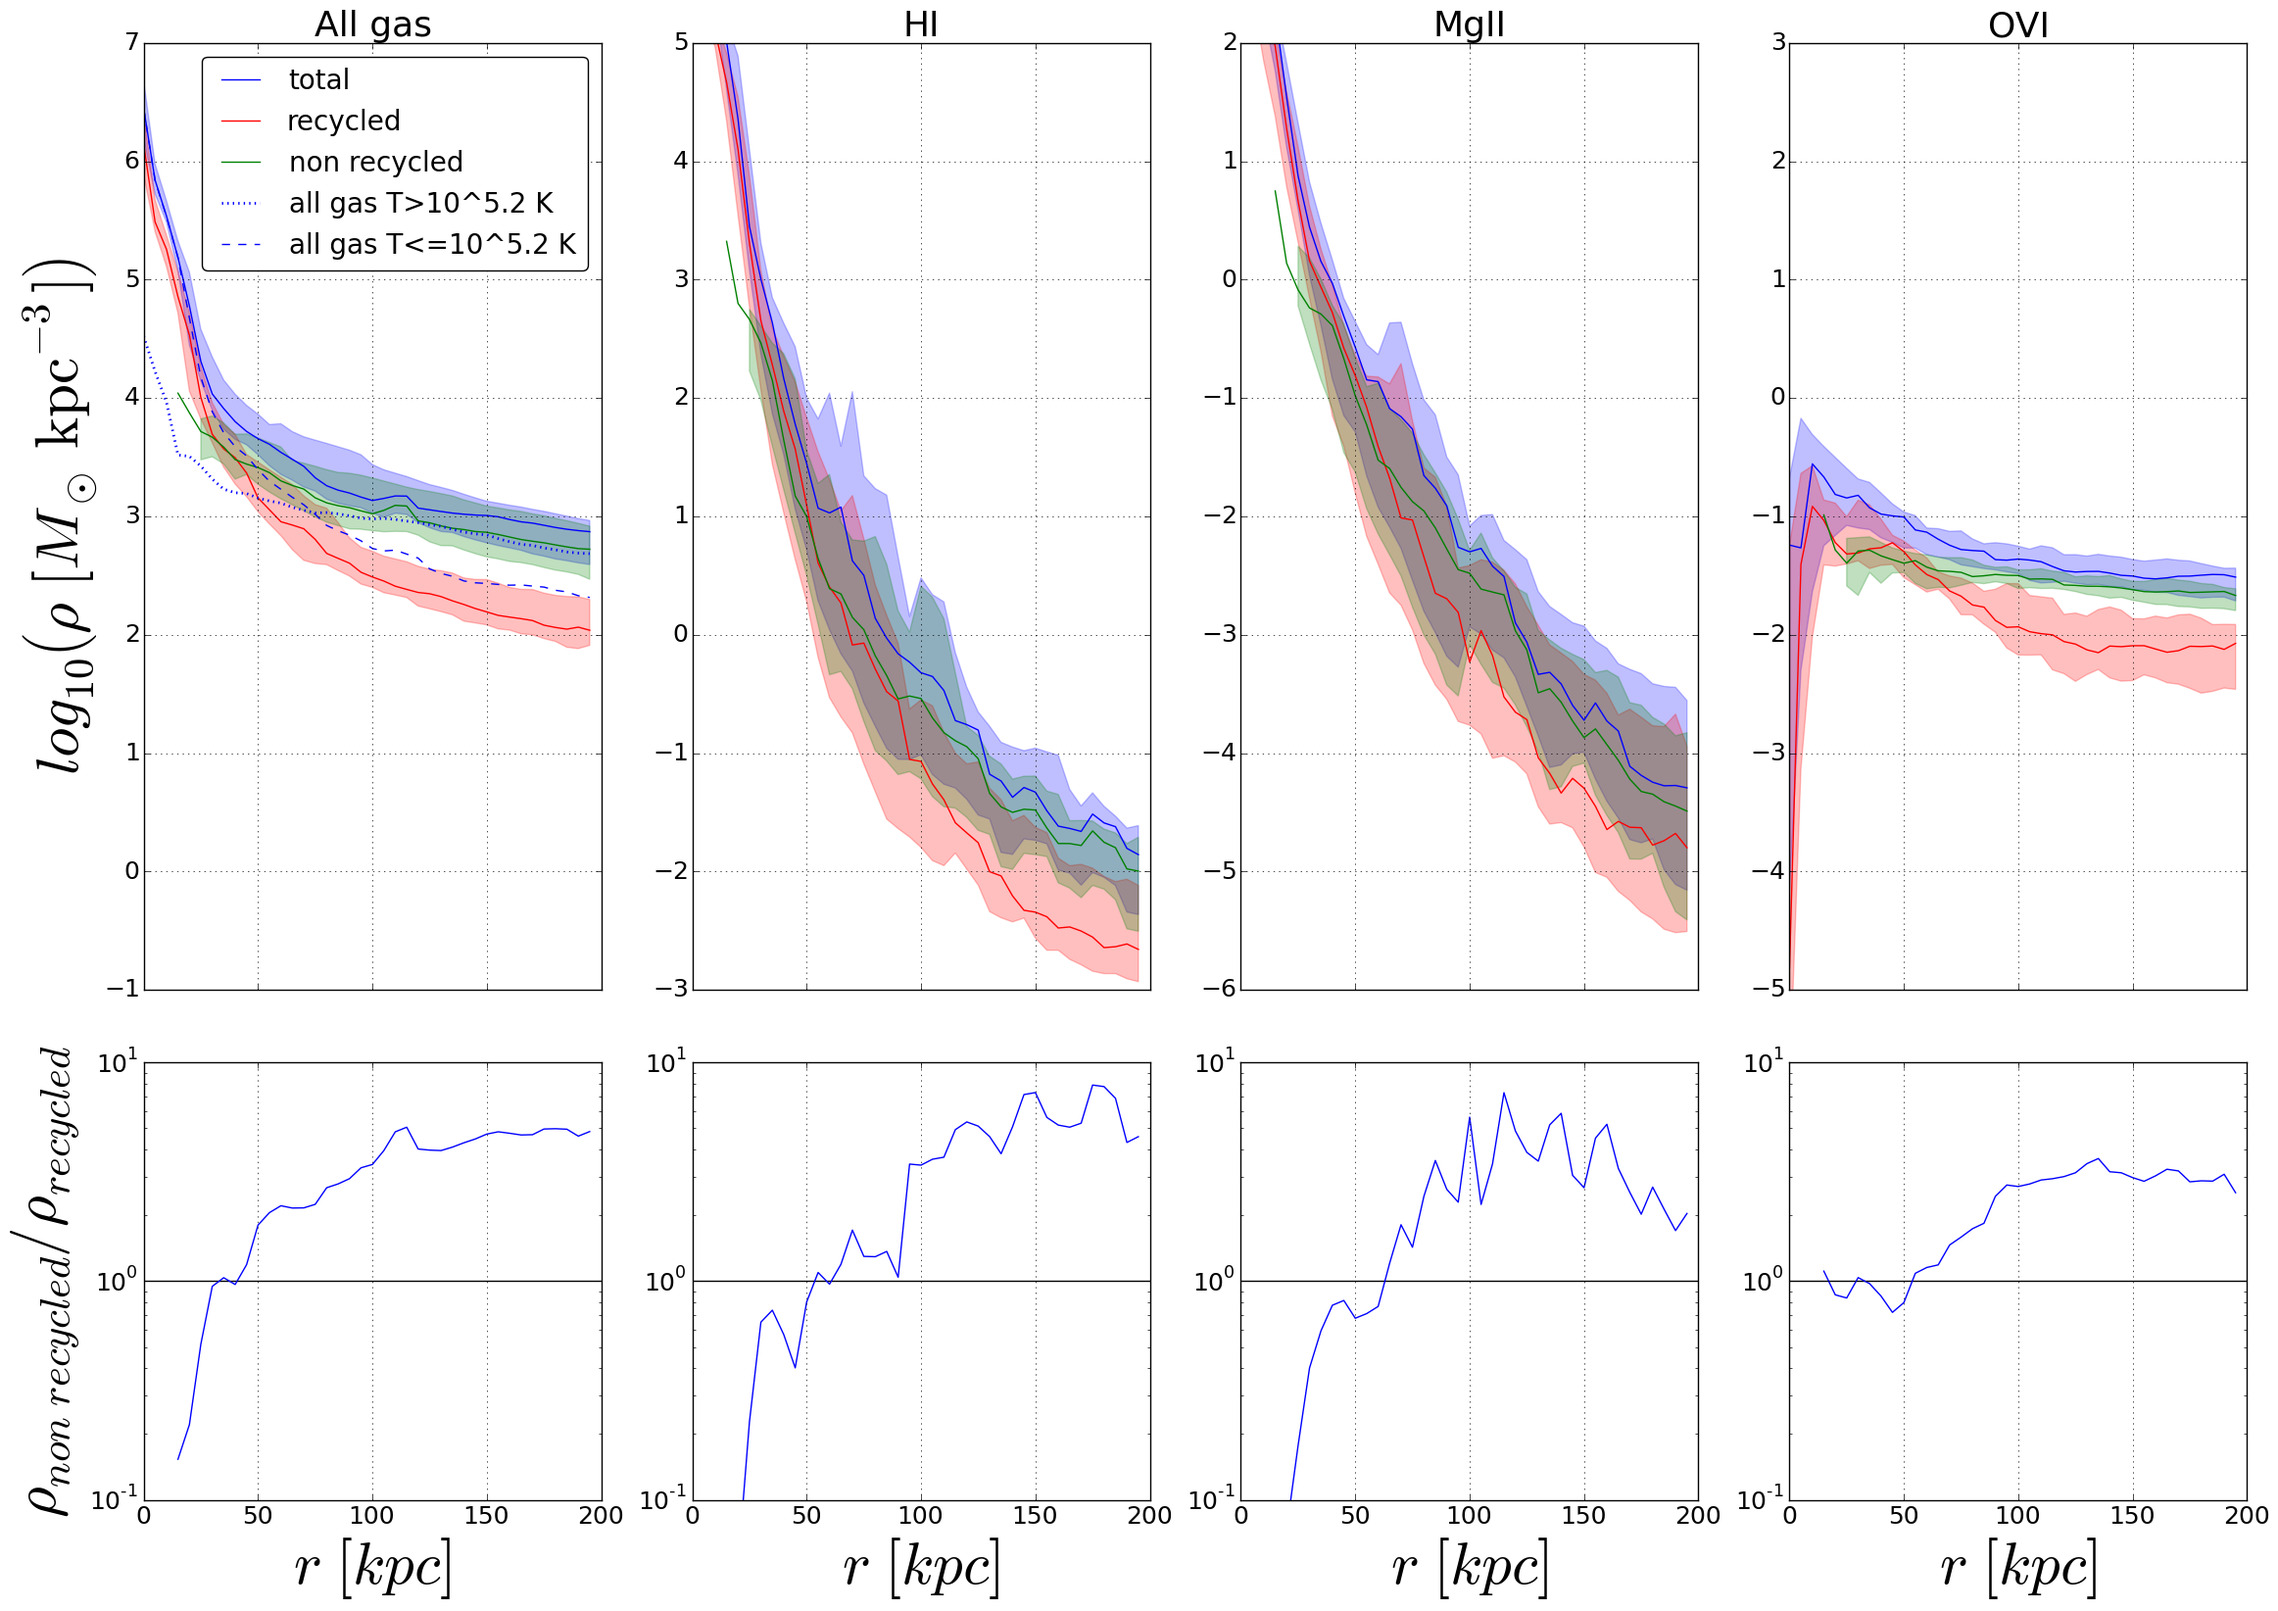
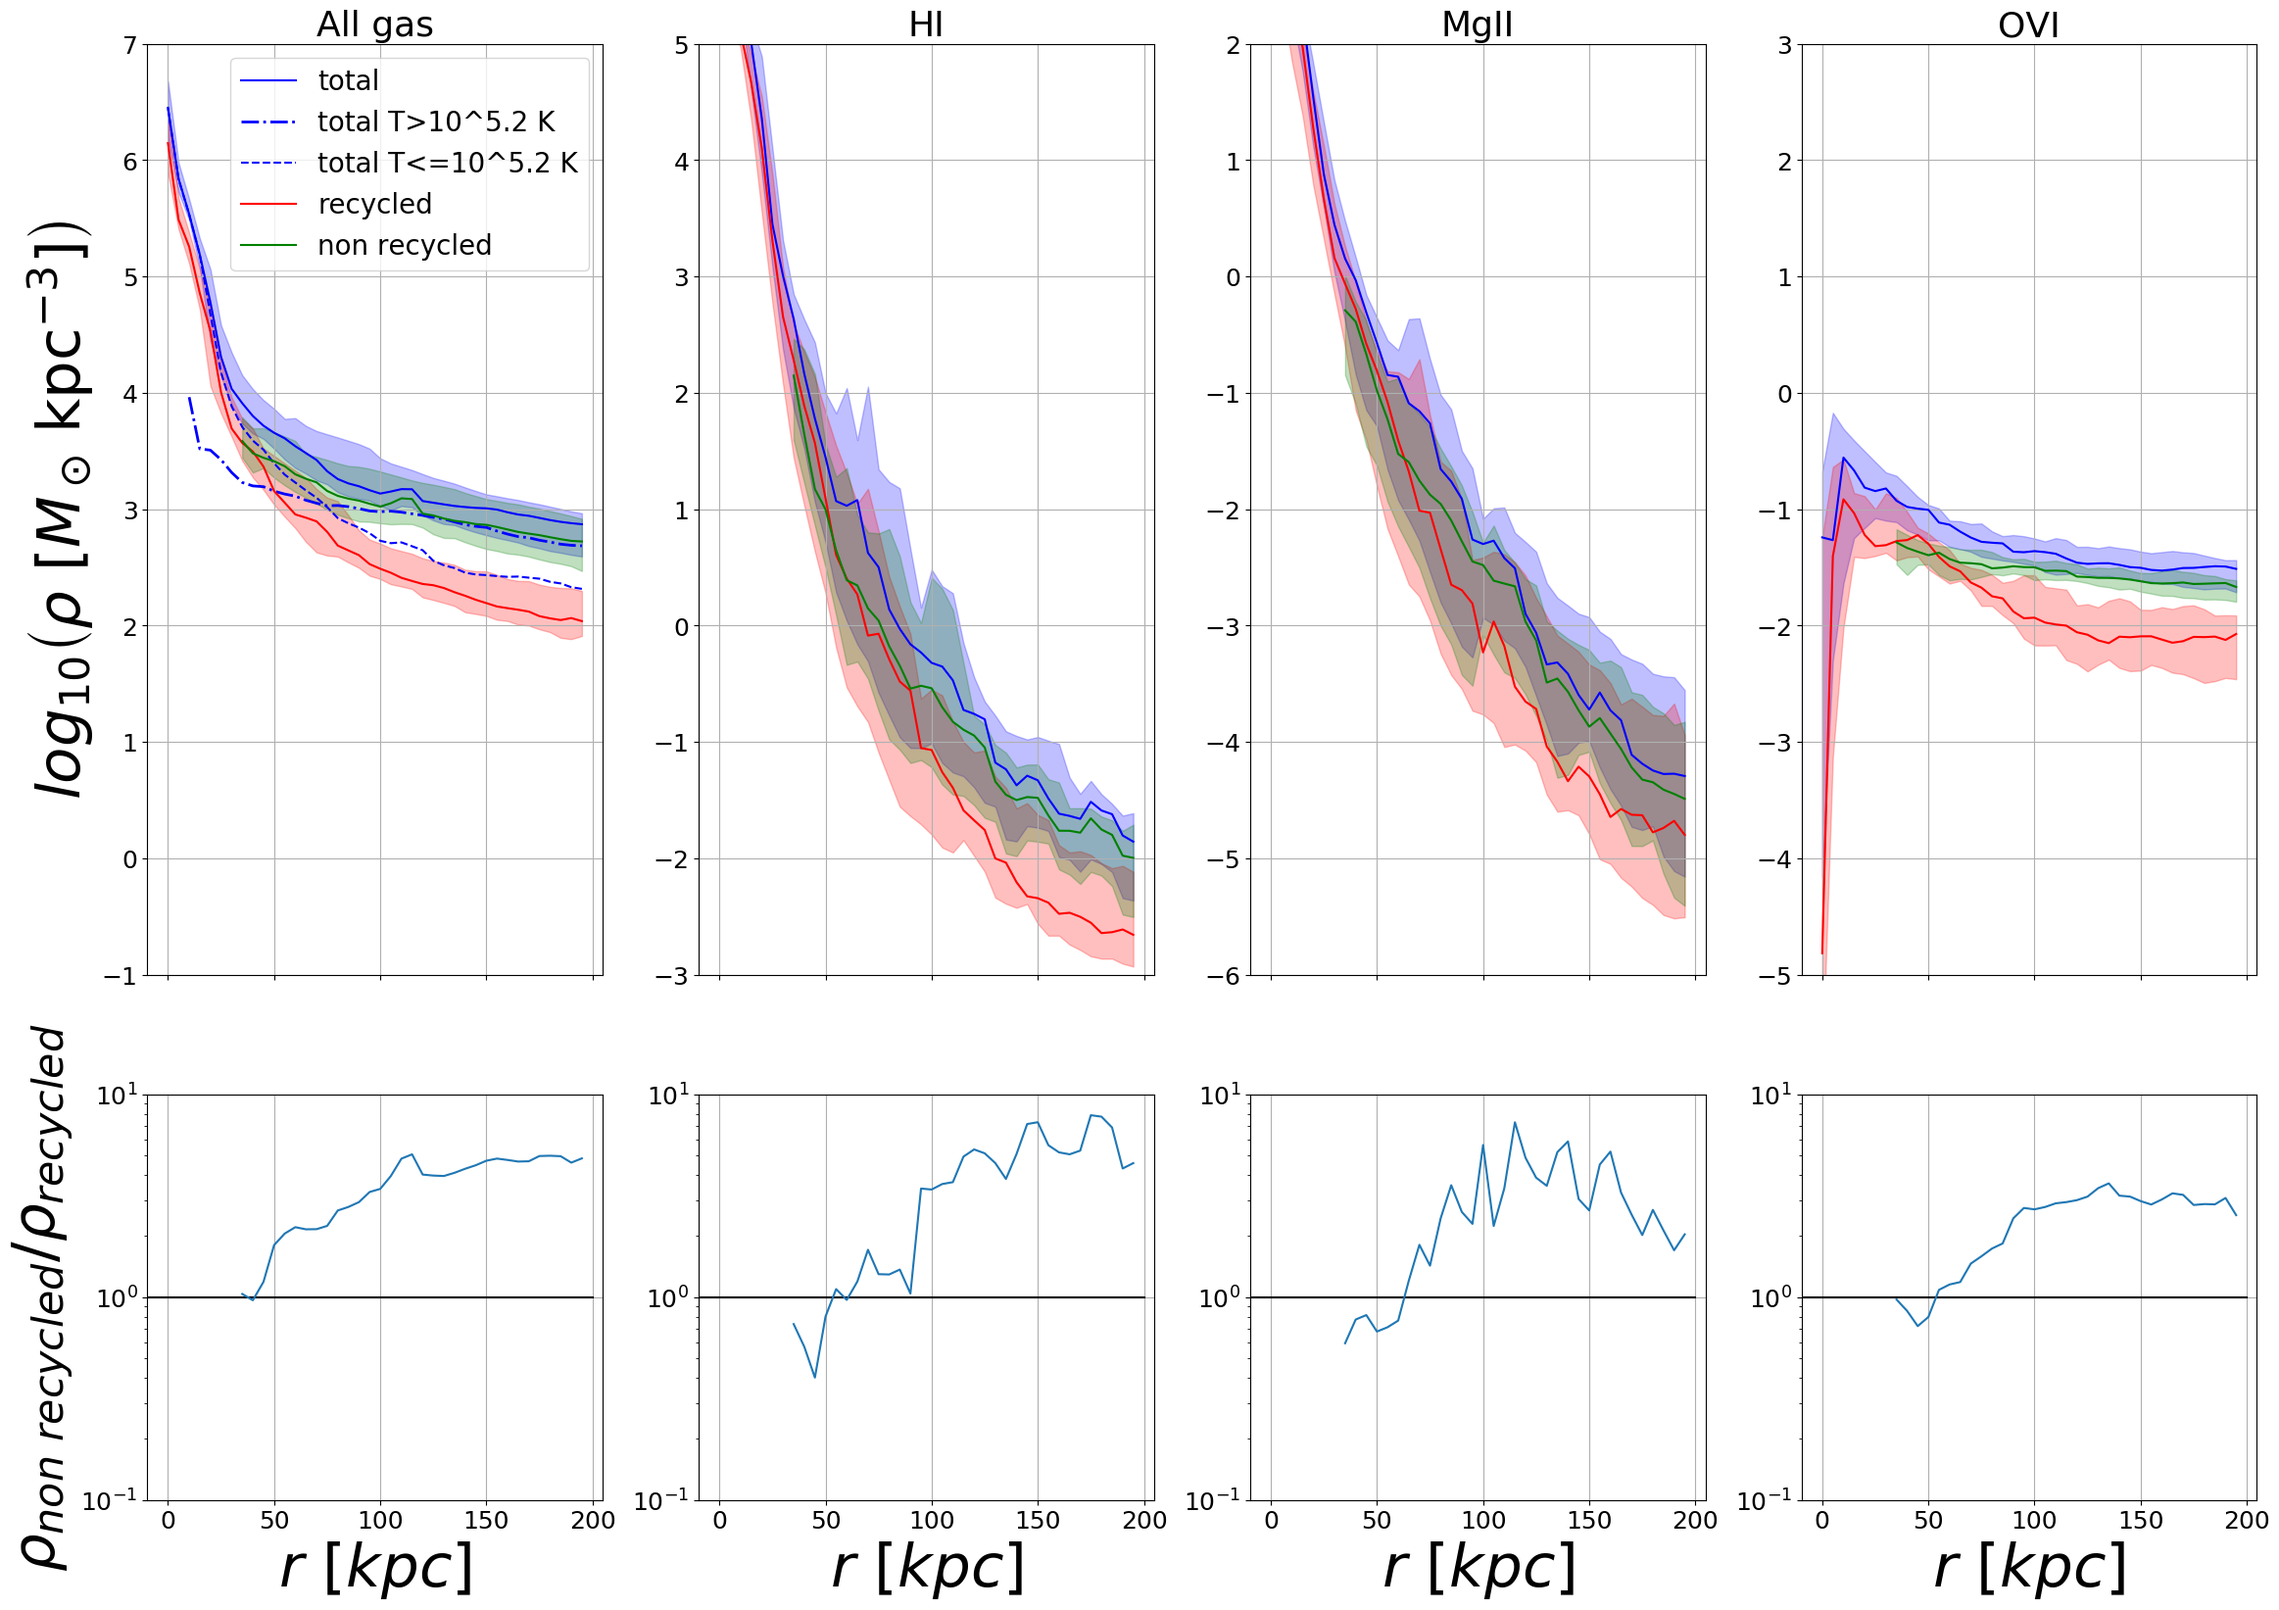
density_profiles_HI fix bottom xlim, add an enlarged all gas plot

diff --git a/1/density_profiles_HI.py b/1/density_profiles_HI.py
@@ -12,11 +12,9 @@ from multiprocessing import Pool
 
 filename = __file__
 
-plt.style.use('general')
-
 bins = np.arange(0, 205, 5)
 
-profiles = np.zeros(5, dtype=object)
+profiles = np.zeros(9, dtype=object)
 HI_profiles = np.zeros(3, dtype=object)
 MgII_profiles = np.zeros(3, dtype=object)
 OVI_profiles = np.zeros(3, dtype=object)
@@ -36,10 +34,14 @@ for i, args in enumerate(utils.combinations):
     
     if i == 0:
         profiles[0] = pg.analysis.profile_dens(s.gas, 'mass', r_edges=bins)
-        profiles[1] = pg.analysis.profile_dens(s.gas[m_rec], 'mass', r_edges=bins)
-        profiles[2] = pg.analysis.profile_dens(s.gas[m_nrec], 'mass', r_edges=bins)
-        profiles[3] = pg.analysis.profile_dens(s.gas[hot], 'mass', r_edges=bins)
-        profiles[4] = pg.analysis.profile_dens(s.gas[~hot], 'mass', r_edges=bins)
+        profiles[1] = pg.analysis.profile_dens(s.gas[hot], 'mass', r_edges=bins)
+        profiles[2] = pg.analysis.profile_dens(s.gas[~hot], 'mass', r_edges=bins)
+        profiles[3] = pg.analysis.profile_dens(s.gas[m_rec], 'mass', r_edges=bins)
+        profiles[4] = pg.analysis.profile_dens(s.gas[m_rec][hot], 'mass', r_edges=bins)
+        profiles[5] = pg.analysis.profile_dens(s.gas[m_rec][~hot], 'mass', r_edges=bins)
+        profiles[6] = pg.analysis.profile_dens(s.gas[m_nrec], 'mass', r_edges=bins)
+        profiles[7] = pg.analysis.profile_dens(s.gas[m_nrec][hot], 'mass', r_edges=bins)
+        profiles[8] = pg.analysis.profile_dens(s.gas[m_nrec][~hot], 'mass', r_edges=bins)
         HI_profiles[0] = pg.analysis.profile_dens(s.gas, 'HI', r_edges=bins)
         HI_profiles[1] = pg.analysis.profile_dens(s.gas[m_rec], 'HI', r_edges=bins)
         HI_profiles[2] = pg.analysis.profile_dens(s.gas[m_nrec], 'HI', r_edges=bins)
@@ -51,10 +53,14 @@ for i, args in enumerate(utils.combinations):
         OVI_profiles[2] = pg.analysis.profile_dens(s.gas[m_nrec], 'OVI', r_edges=bins)
     else:
         profiles[0] = np.column_stack((profiles[0], pg.analysis.profile_dens(s.gas, 'mass', r_edges=bins)))
-        profiles[1] = np.column_stack((profiles[1], pg.analysis.profile_dens(s.gas[m_rec], 'mass', r_edges=bins)))
-        profiles[2] = np.column_stack((profiles[2], pg.analysis.profile_dens(s.gas[m_nrec], 'mass', r_edges=bins)))
-        profiles[3] = np.column_stack((profiles[3], pg.analysis.profile_dens(s.gas[hot], 'mass', r_edges=bins)))
-        profiles[4] = np.column_stack((profiles[4], pg.analysis.profile_dens(s.gas[~hot], 'mass', r_edges=bins)))
+        profiles[1] = np.column_stack((profiles[1], pg.analysis.profile_dens(s.gas[hot], 'mass', r_edges=bins)))
+        profiles[2] = np.column_stack((profiles[2], pg.analysis.profile_dens(s.gas[~hot], 'mass', r_edges=bins)))
+        profiles[3] = np.column_stack((profiles[3], pg.analysis.profile_dens(s.gas[m_rec], 'mass', r_edges=bins)))
+        profiles[4] = np.column_stack((profiles[4], pg.analysis.profile_dens(s.gas[m_rec][hot], 'mass', r_edges=bins)))
+        profiles[5] = np.column_stack((profiles[5], pg.analysis.profile_dens(s.gas[m_rec][~hot], 'mass', r_edges=bins)))
+        profiles[6] = np.column_stack((profiles[6], pg.analysis.profile_dens(s.gas[m_nrec], 'mass', r_edges=bins)))
+        profiles[7] = np.column_stack((profiles[7], pg.analysis.profile_dens(s.gas[m_nrec][hot], 'mass', r_edges=bins)))
+        profiles[8] = np.column_stack((profiles[8], pg.analysis.profile_dens(s.gas[m_nrec][~hot], 'mass', r_edges=bins)))
         HI_profiles[0] = np.column_stack((HI_profiles[0], pg.analysis.profile_dens(s.gas, 'HI', r_edges=bins)))
         HI_profiles[1] = np.column_stack((HI_profiles[1], pg.analysis.profile_dens(s.gas[m_rec], 'HI', r_edges=bins)))
         HI_profiles[2] = np.column_stack((HI_profiles[2], pg.analysis.profile_dens(s.gas[m_nrec], 'HI', r_edges=bins)))
@@ -96,7 +102,7 @@ for a in (ax1, ax3, ax5, ax7):
 for a in (ax2, ax4, ax6, ax8):
     a.set_ylim((1e-1, 1e1))
     a.set_yscale('log')
-    a.plot([0, 200], [1, 1], color='k')
+    a.plot([-200, 200], [1, 1], color='k')
     a.set_xlabel(r'$r\ [kpc]$', fontsize=44)
 
 ax1.set_ylim((-1, 7))
@@ -110,16 +116,16 @@ ax5.set_title('MgII')
 ax7.set_title('OVI')
 
 ax1.plot(bins[:-1], np.percentile(profiles[0], 50, axis=1), color='b', label='total')
-ax1.plot(bins[:-1], np.percentile(profiles[1], 50, axis=1), color='r', label='recycled')
-ax1.plot(bins[:-1], np.percentile(profiles[2], 50, axis=1), color='g', label='non recycled')
-ax1.plot(bins[:-1], np.percentile(profiles[3], 50, axis=1), color='b', ls='dotted', lw=2, label='all gas T>10^5.2 K')
-ax1.plot(bins[:-1], np.percentile(profiles[4], 50, axis=1), color='b', ls='dashed', label='all gas T<=10^5.2 K')
+ax1.plot(bins[:-1], np.percentile(profiles[1], 50, axis=1), color='b', ls='-.', lw=2, label='total T>10^5.2 K')
+ax1.plot(bins[:-1], np.percentile(profiles[2], 50, axis=1), color='b', ls='dashed', label='total T<=10^5.2 K')
+ax1.plot(bins[:-1], np.percentile(profiles[3], 50, axis=1), color='r', label='recycled')
+ax1.plot(bins[:-1], np.percentile(profiles[6], 50, axis=1), color='g', label='non recycled')
 ax1.fill_between(bins[:-1], np.percentile(profiles[0], 25, axis=1),
     np.percentile(profiles[0], 75, axis=1), alpha=.25, color='b')
-ax1.fill_between(bins[:-1], np.percentile(profiles[1], 25, axis=1),
-    np.percentile(profiles[1], 75, axis=1), alpha=.25, color='r')
-ax1.fill_between(bins[:-1], np.percentile(profiles[2], 25, axis=1),
-    np.percentile(profiles[2], 75, axis=1), alpha=.25, color='g')
+ax1.fill_between(bins[:-1], np.percentile(profiles[3], 25, axis=1),
+    np.percentile(profiles[3], 75, axis=1), alpha=.25, color='r')
+ax1.fill_between(bins[:-1], np.percentile(profiles[6], 25, axis=1),
+    np.percentile(profiles[6], 75, axis=1), alpha=.25, color='g')
 ax1.legend(loc='upper right', fontsize=20)
 
 ax3.plot(bins[:-1], np.percentile(HI_profiles[0], 50, axis=1), color='b', label='total')
@@ -152,12 +158,43 @@ ax7.fill_between(bins[:-1], np.percentile(OVI_profiles[1], 25, axis=1),
 ax7.fill_between(bins[:-1], np.percentile(OVI_profiles[2], 25, axis=1),
     np.percentile(OVI_profiles[2], 75, axis=1), alpha=.25, color='g')
 
-ax2.plot(bins[:-1], 10**(np.percentile(profiles[2], 50, axis=1)) / 10**(np.percentile(profiles[1], 50, axis=1)))
+ax2.plot(bins[:-1], 10**(np.percentile(profiles[6], 50, axis=1)) / 10**(np.percentile(profiles[3], 50, axis=1)))
 ax4.plot(bins[:-1], 10**(np.percentile(HI_profiles[2], 50, axis=1)) / 10**(np.percentile(HI_profiles[1], 50, axis=1)))
 ax6.plot(bins[:-1], 10**(np.percentile(MgII_profiles[2], 50, axis=1)) / 10**(np.percentile(MgII_profiles[1], 50, axis=1)))
 ax8.plot(bins[:-1], 10**(np.percentile(OVI_profiles[2], 50, axis=1)) / 10**(np.percentile(OVI_profiles[1], 50, axis=1)))
 
+ax2.set_xlim(ax1.get_xlim())
+ax4.set_xlim(ax3.get_xlim())
+ax6.set_xlim(ax5.get_xlim())
+ax8.set_xlim(ax7.get_xlim())
+
 f.tight_layout()
 
 plt.savefig(filename.split("/")[-1][:-3] + ".png", bbox_inches='tight')
+
+f, ax = plt.subplots(1, figsize=utils.figsize[::-1])
+ax.set_ylabel(r'$log_{10}\left(\rho\ [%s]\right)$' % y_label, fontsize=44)
+ax.set_xlabel(r'$r\ [kpc]$', fontsize=44)
+ax.set_ylim((1.5, 5))
+ax.set_title('All gas')
+ax.plot(bins[:-1], np.percentile(profiles[0], 50, axis=1), color='b', label='total')
+ax.plot(bins[:-1], np.percentile(profiles[1], 50, axis=1), color='b', ls='-.', lw=2, label='total T>10^5.2 K')
+ax.plot(bins[:-1], np.percentile(profiles[2], 50, axis=1), color='b', ls='dashed', label='total T<=10^5.2 K')
+ax.plot(bins[:-1], np.percentile(profiles[3], 50, axis=1), color='r', label='recycled')
+ax.plot(bins[:-1], np.percentile(profiles[4], 50, axis=1), color='r', ls='-.', lw=2, label='recycled T>10^5.2 K')
+ax.plot(bins[:-1], np.percentile(profiles[5], 50, axis=1), color='r', ls='dashed', label='recycled T<=10^5.2 K')
+ax.plot(bins[:-1], np.percentile(profiles[6], 50, axis=1), color='g', label='non recycled')
+ax.plot(bins[:-1], np.percentile(profiles[7], 50, axis=1), color='g', ls='-.', lw=2, label='non recycled T>10^5.2 K')
+ax.plot(bins[:-1], np.percentile(profiles[8], 50, axis=1), color='g', ls='dashed', label='non recycled T<=10^5.2 K')
+ax.fill_between(bins[:-1], np.percentile(profiles[0], 25, axis=1),
+    np.percentile(profiles[0], 75, axis=1), alpha=.25, color='b')
+ax.fill_between(bins[:-1], np.percentile(profiles[3], 25, axis=1),
+    np.percentile(profiles[3], 75, axis=1), alpha=.25, color='r')
+ax.fill_between(bins[:-1], np.percentile(profiles[6], 25, axis=1),
+    np.percentile(profiles[6], 75, axis=1), alpha=.25, color='g')
+ax.legend(bbox_to_anchor=(1.05, 1), loc=2, borderaxespad=0.)
+
+f.tight_layout()
+
+plt.savefig(filename.split("/")[-1][:-3] + "_all_gas_only.png", bbox_inches='tight')
 
